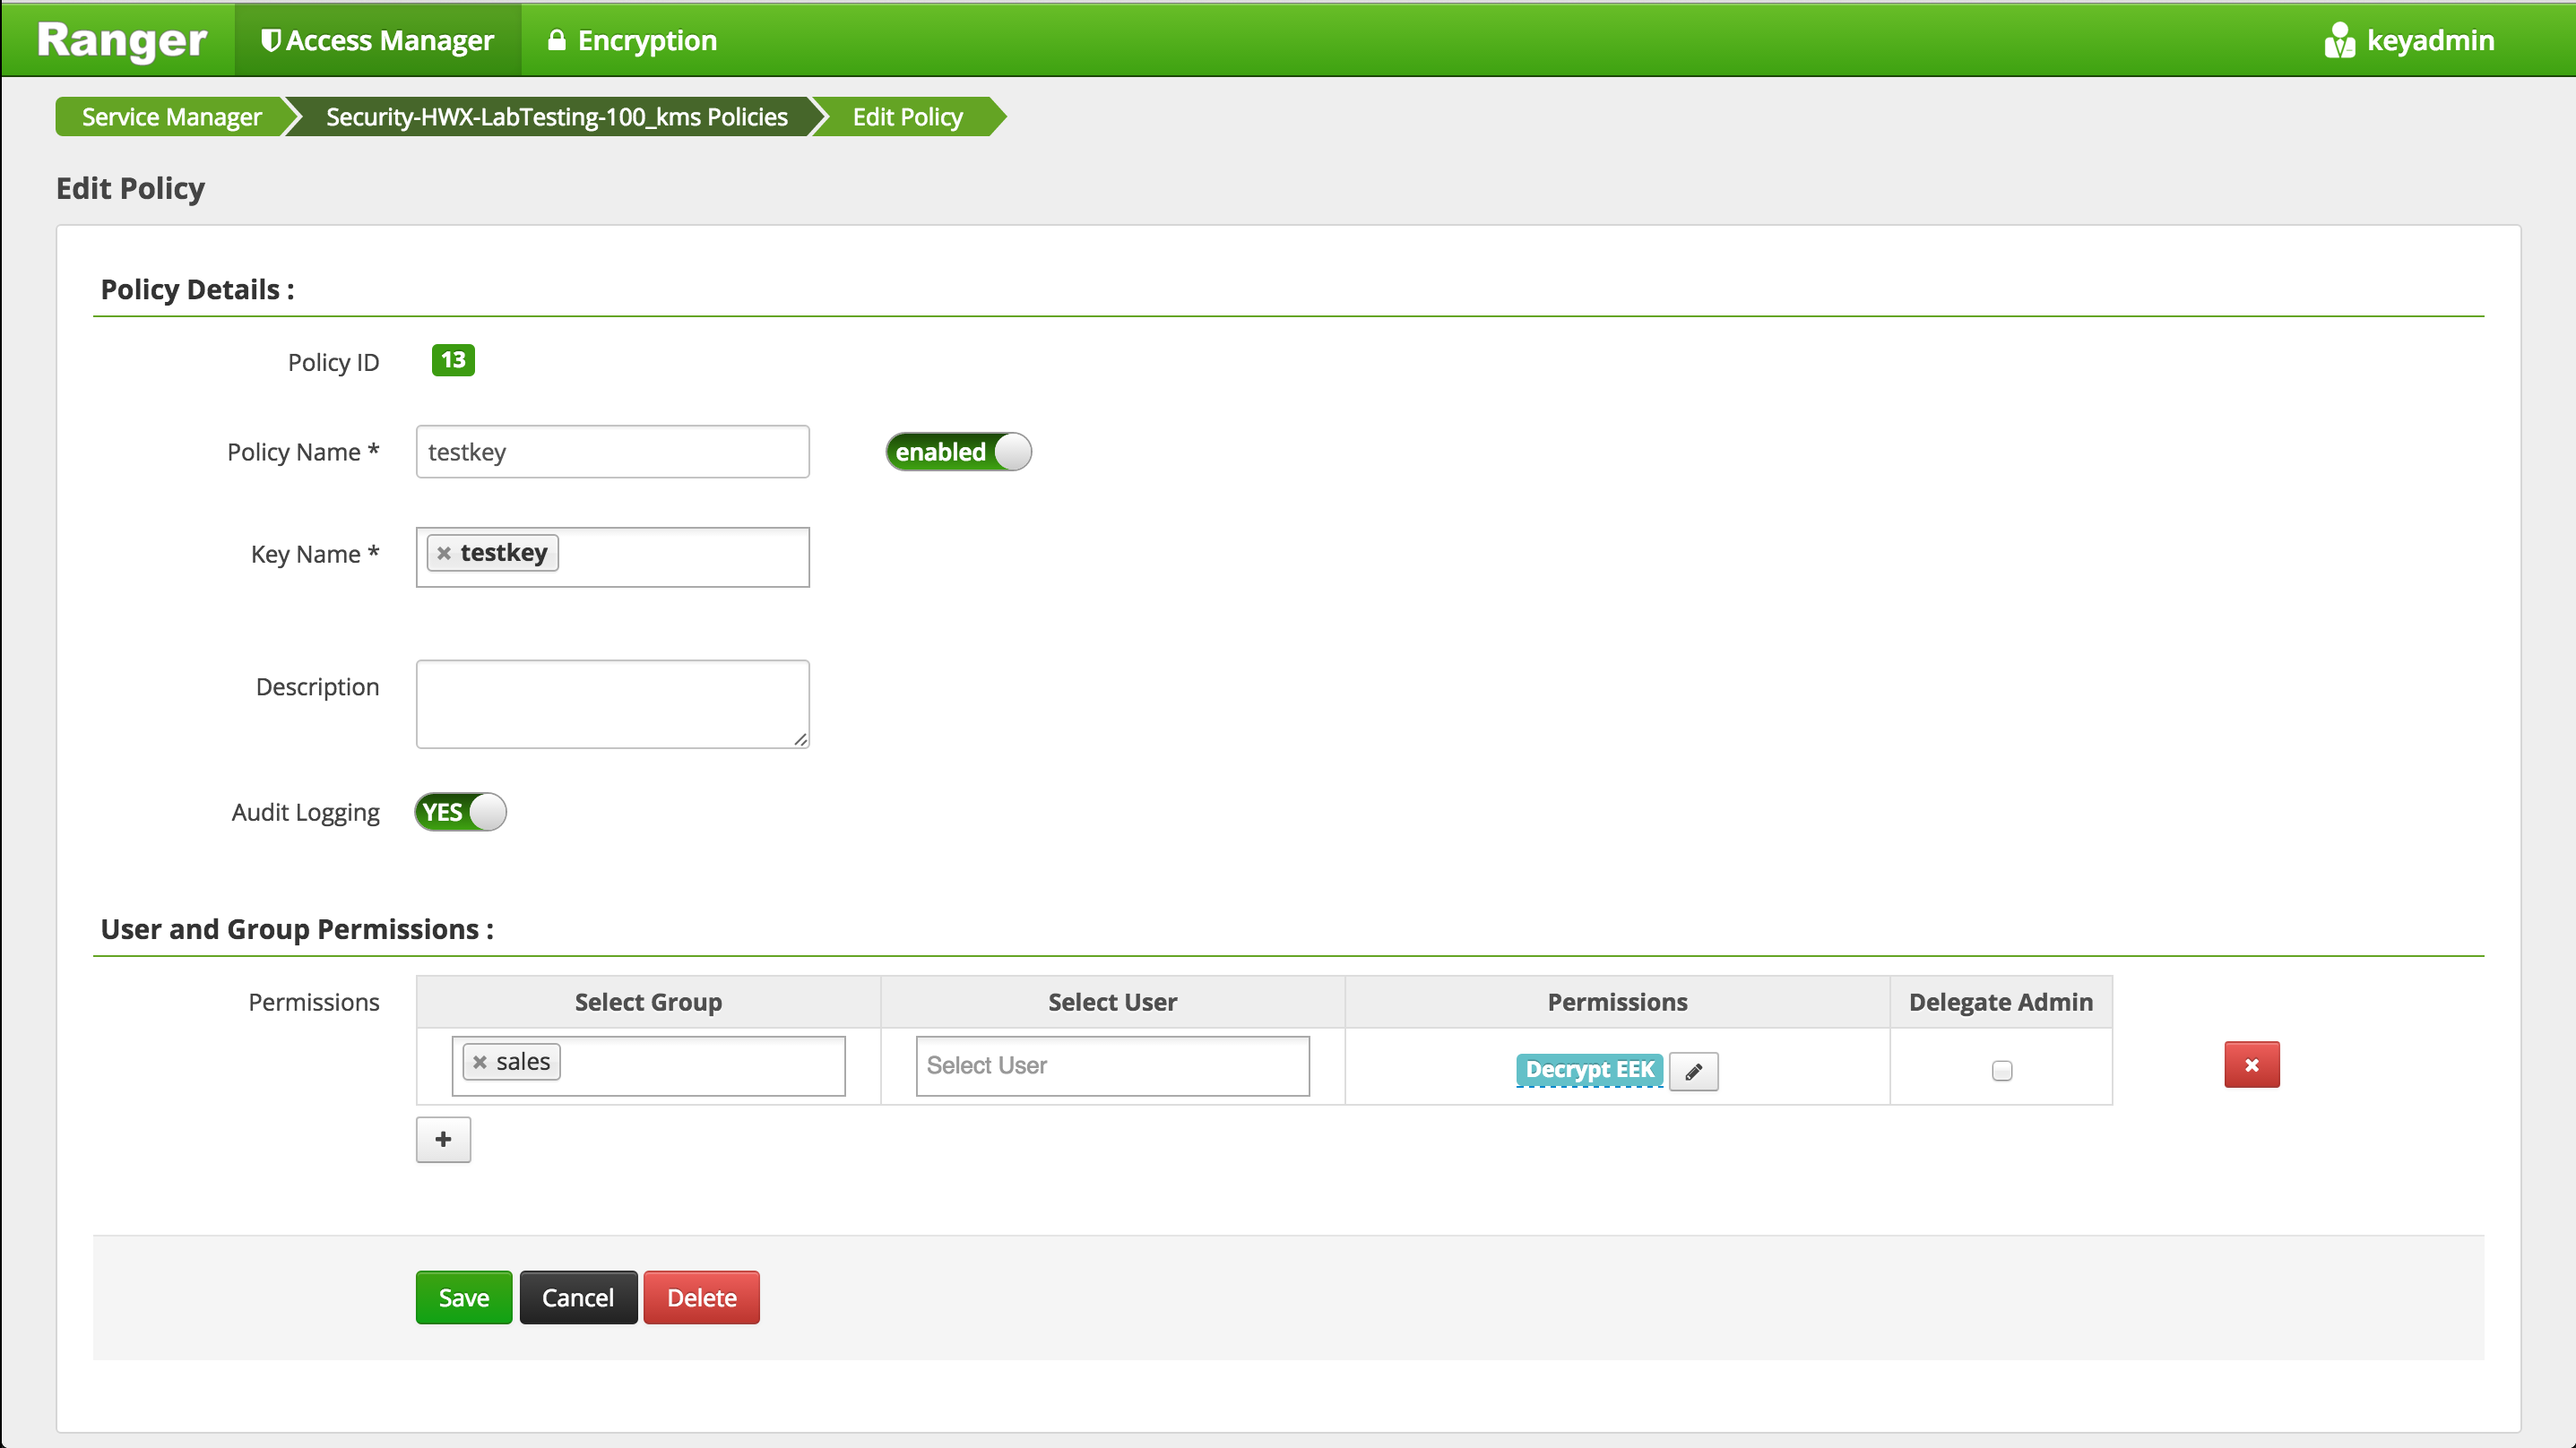
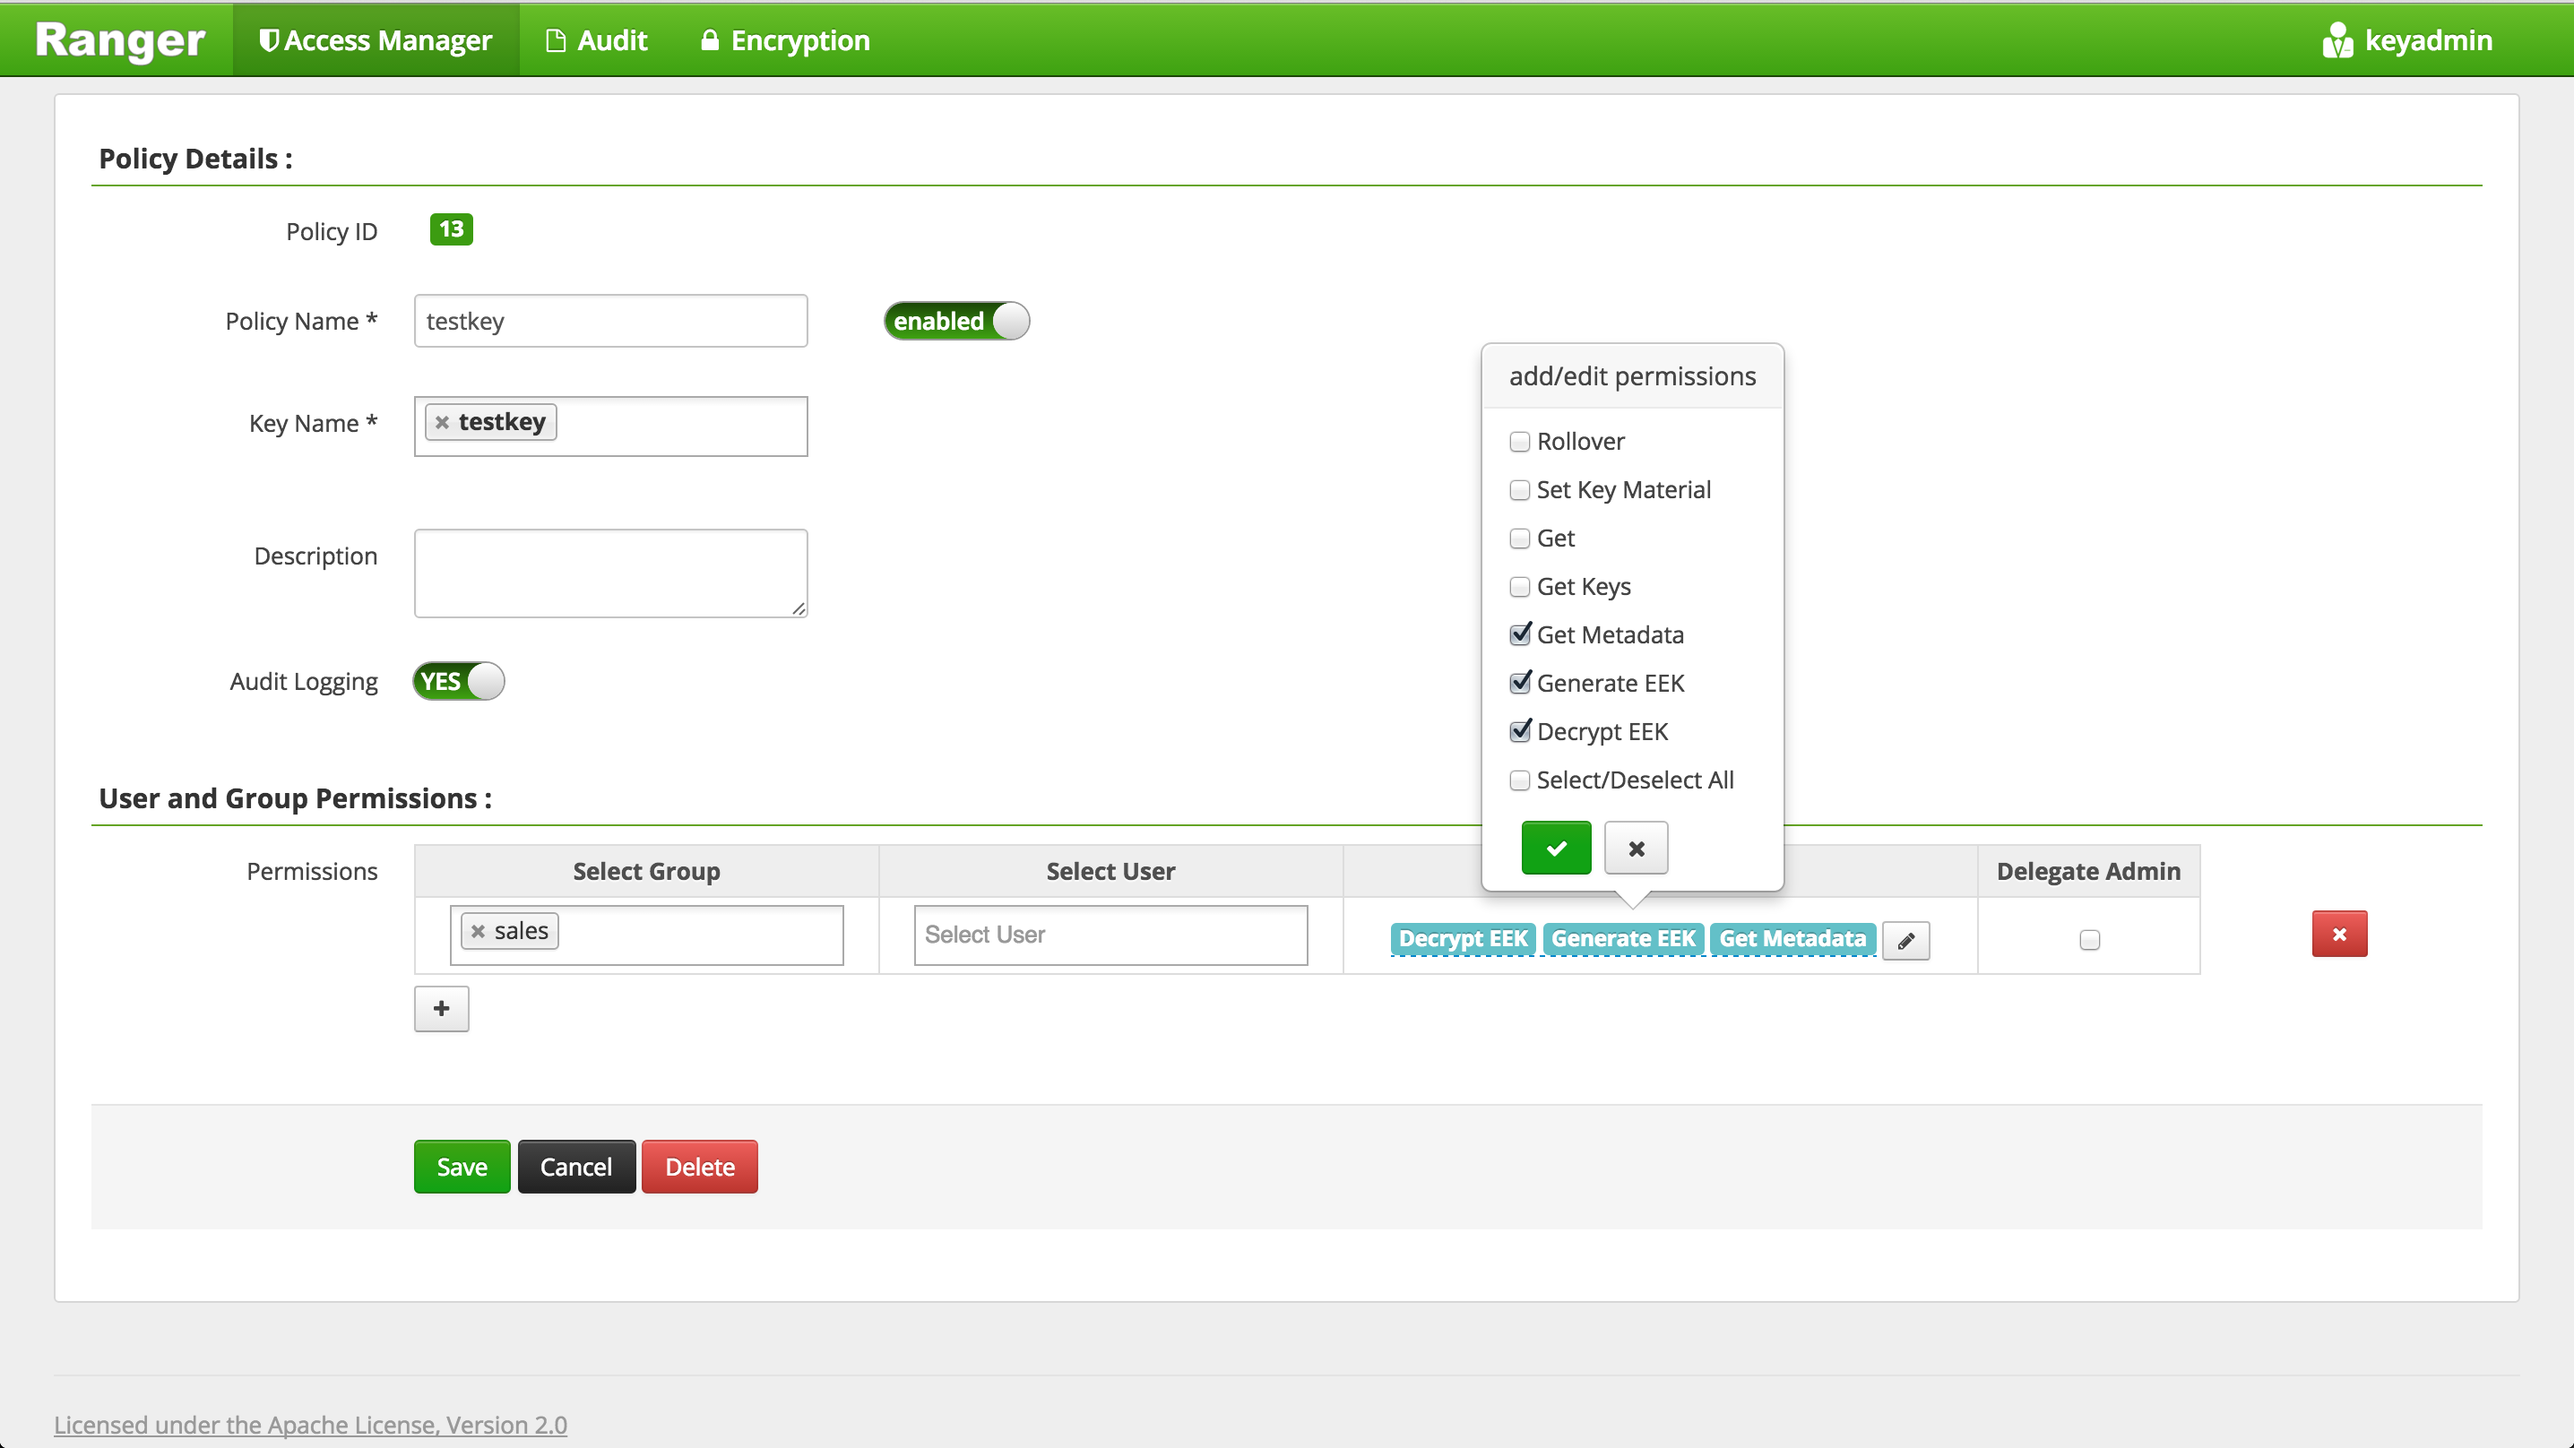
formatted

diff --git a/security-advanced/README.md b/security-advanced/README.md
@@ -793,7 +793,6 @@ Adjusting ambari-server permissions and ownership...
 Ambari Server 'setup-security' completed successfully.
 ```
 
-- Next time you add a service via Ambari (e.g. Ranger) you will be able to request Ambari to "Save admin credentials" (via checkbox) for next time
 
 ### SSL For Ambari server
 
@@ -1338,7 +1337,7 @@ sudo ln -s /etc/hadoop/conf/core-site.xml /etc/ranger/kms/conf/core-site.xml
     ![Image](https://raw.githubusercontent.com/seanorama/masterclass/master/security-advanced/screenshots/Ranger-policy-kms-audit.png) 
 
   - Give keyadmin permission to view Audits screen in Ranger:
-    - Settings > Permissions
+    - Settings tab > Permissions
      ![Image](https://raw.githubusercontent.com/seanorama/masterclass/master/security-advanced/screenshots/Ranger-user-permissions.png)
     - Click 'Audit' (second row from bottom) to change users who have access to Audit screen
     - Under 'Select User', add 'keyadmin' user
@@ -2007,14 +2006,12 @@ logout
 ![Image](https://raw.githubusercontent.com/seanorama/masterclass/master/security-advanced/screenshots/Ranger-HIVE-create-policy-persons.png)  
   - Log out of Ranger
   
-- Create Ranger policy to allow `sales` group `decrypt EEK` permissions on `testkey` (i.e. key used to encrypt Hive warehouse directories)
+- Create Ranger policy to allow `sales` group `Get Metadata` `GenerateEEK` `DecryptEEK` permissions on `testkey` (i.e. key used to encrypt Hive warehouse directories)
   - Login to Ranger http://RANGER_PUBLIC_IP:6080 with keyadmin/keyadmin
   - Access Manager > KMS > (cluster)_KMS > Add new policy
   - Create new policy as below and click Add:
   ![Image](https://raw.githubusercontent.com/seanorama/masterclass/master/security-advanced/screenshots/Ranger-KMS-create-policy-testkey.png)  
   - Log out of Ranger and re-login as admin/admin
-
-- Notice that for end user access to keys, 'Decrypt EEK' permission is sufficient
 
 - Login as sales1
 ```
@@ -2026,7 +2023,7 @@ sudo su - sales1
   - username: Mysql username
   - password: Mysql password
   - hcatalog-table: Hive table name
-  - create-hcatalog-table: whether to create hive table or not
+  - create-hcatalog-table: hive table should be created first
   - driver: classname for Mysql driver
   - m: number of mappers
   
